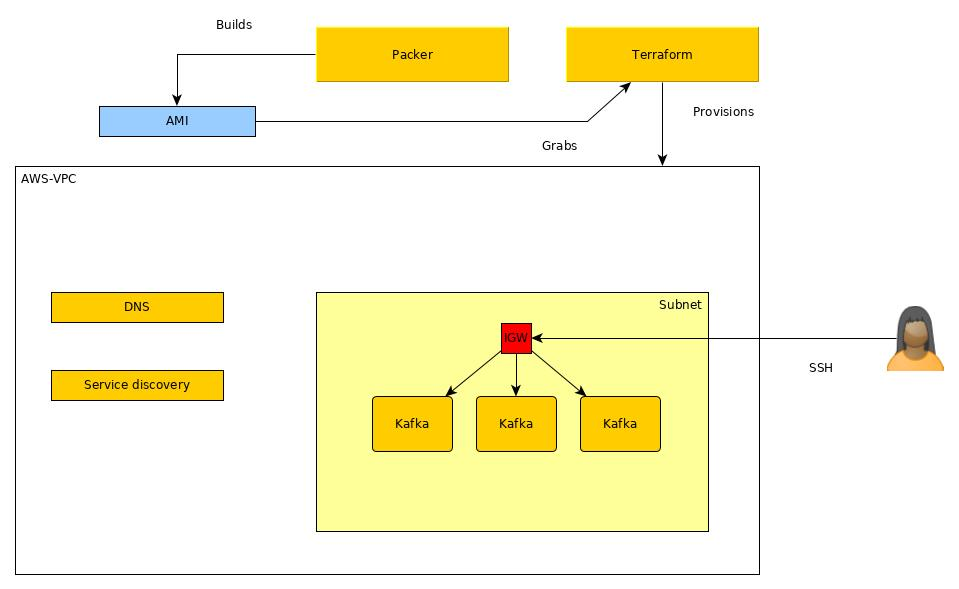
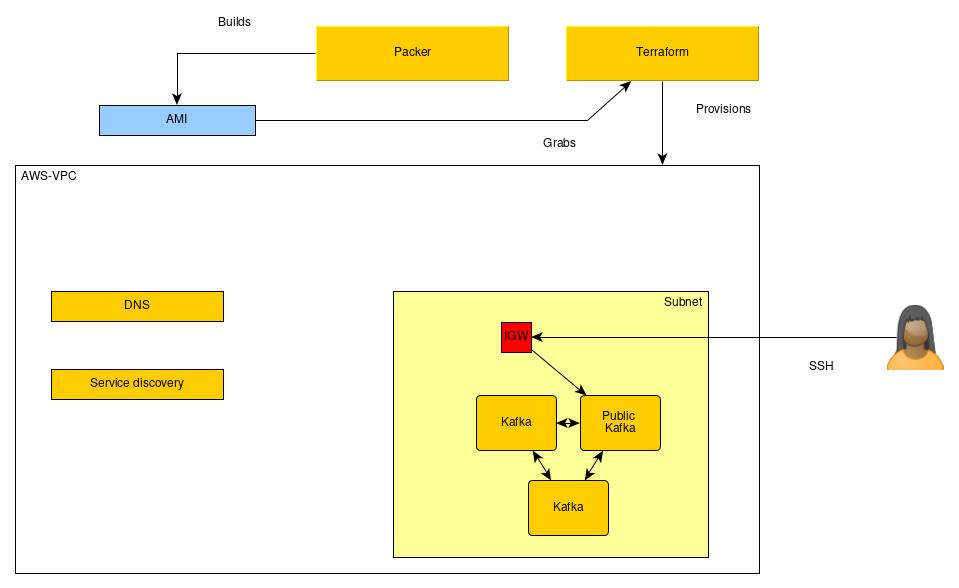
Fixed problem with two route tables, and tested the stack under terraform 0.12

diff --git a/README.md b/README.md
@@ -36,39 +36,6 @@ We start with building the packer image, or take the one that is already there. 
 `kafka-2.1.1-(20190527012503)` and take the AMI ID and past that into the variable file (terraform/vars.tf)
 See below
 
-#### Terraform 
-You need to create or change the .aws/credentials file to be able to run against your aws account. Adapt it in the provider.tf file.  
-Then run from the terraform folder
-```bash
-terraform plan -out kafka.plan
-``` 
-Then apply it by 
-```bash
-terraform apply kafka.plan
-```
-
-You also need to create a terragrunt/secrets.tfvars file with the ssh key you use to get to the kafka instance.
-This is then injected by terragrunt.  
-
-
-
-```bash
-aws_public_key = "YOUR PUBLIC KEY HERE"
-```
-
-
-The secret* pattern is excluded from git so it will not be pushed into git. 
-
-
-Now use the kafka.json script with packer to create the kafka image to use. The scrupt returns a ami id and you need to place 
-this into the vars.tf file.
-For instance 
-```hcl-terraform
-variable "base_kafka_image_aim" {
-  type = "string"
-  default = "ami-03fd73a66cf574a36"
-}
-```
 
 
 #### AWS Command Line Interface
@@ -97,7 +64,7 @@ Usage:
     -var "aws_secret_key=$AWS_SECRET_KEY" \
     -var 'aws_region=ap-southeast-2' \
     -var 'kafka_version=2.1.1' \
-    -var "aws_public_key=$SSH_PUBLIC_KEY_STRING"    
+    -var "aws_public_key=$SSH_PUBLIC_KEY_STRING" \   
     kafka.json
 ```
 
@@ -117,6 +84,50 @@ Usage:
 - `kafka_version` - *[required]* Kafka version.
 - `system_locale` - Locale for the system (default value: "en_US").
 - `zookeeper_version` - Zookeeper version (default value: "3.4.9").
+
+#### Terraform 
+You need to create or change the .aws/credentials file to be able to run against your aws account. Adapt it in the provider.tf file.  
+Then run from the terraform folder, put in the vars section the name of the image just build. 
+For instance: 
+
+```bash
+terraform plan -var 'base_kafka_image_aim=ami-05aa27f98e8b3c6b8'  -var "aws_public_key=$SSH_PUBLIC_KEY_STRING" -out kafka.plan
+``` 
+Note that if you want to interpolate the bash variables you need to use double quotes around the values, not single quotes as otherwise this will take the literal string and not
+the value in it. 
+
+
+Then apply it by 
+```bash
+terraform apply kafka.plan
+```
+
+You also need to create a terragrunt/secrets.tfvars file with the ssh key you use to get to the kafka instance.
+This is then injected by terragrunt.  
+
+
+
+```bash
+aws_public_key = "YOUR PUBLIC KEY HERE"
+```
+
+
+The secret* pattern is excluded from git so it will not be pushed into git. 
+
+
+Now use the kafka.json script with packer to create the kafka image to use, this can be done by adding it to the commandline as before or set it in the 
+default of the variable in the var.tf file. The script returns a ami id and you need to place 
+this into the vars.tf file.
+For instance 
+```hcl-terraform
+variable "base_kafka_image_aim" {
+  type = "string"
+  default = "ami-03fd73a66cf574a36"
+}
+```
+
+After the terraform apply we have three servers, one with a public ip to be able to set up the cluster, and then two other brokers running on the same machine / base image. 
+
 
 ### Instantiate a Cluster
 
